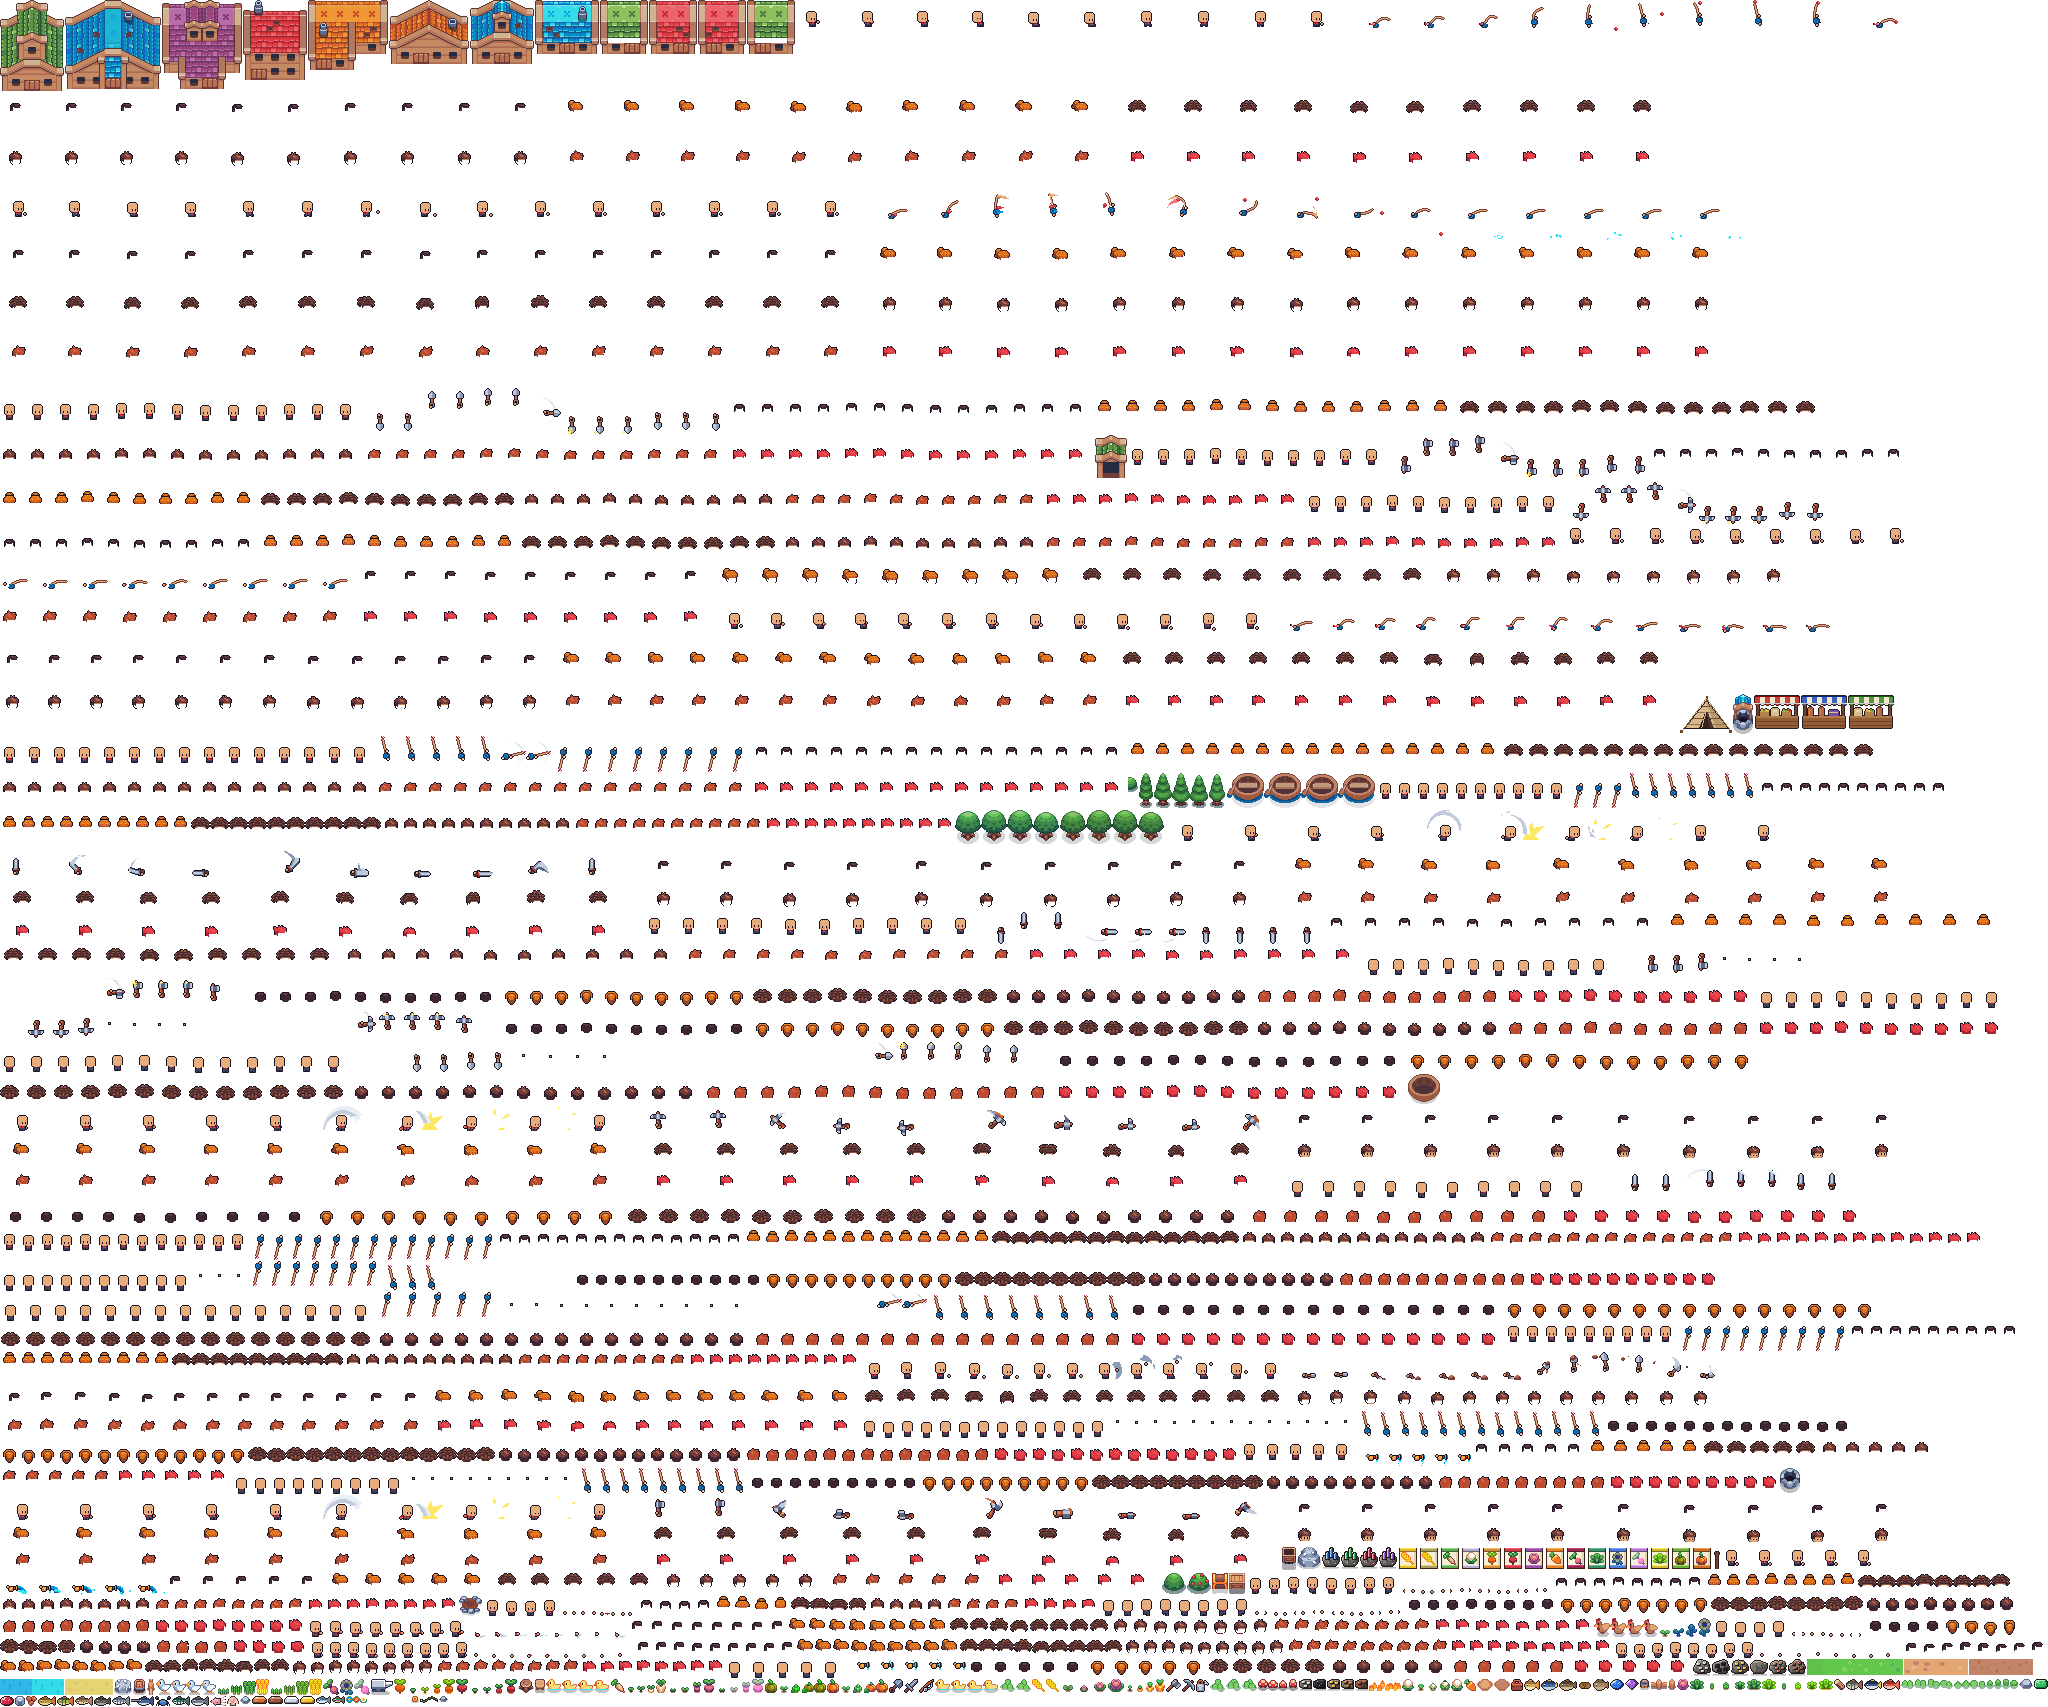
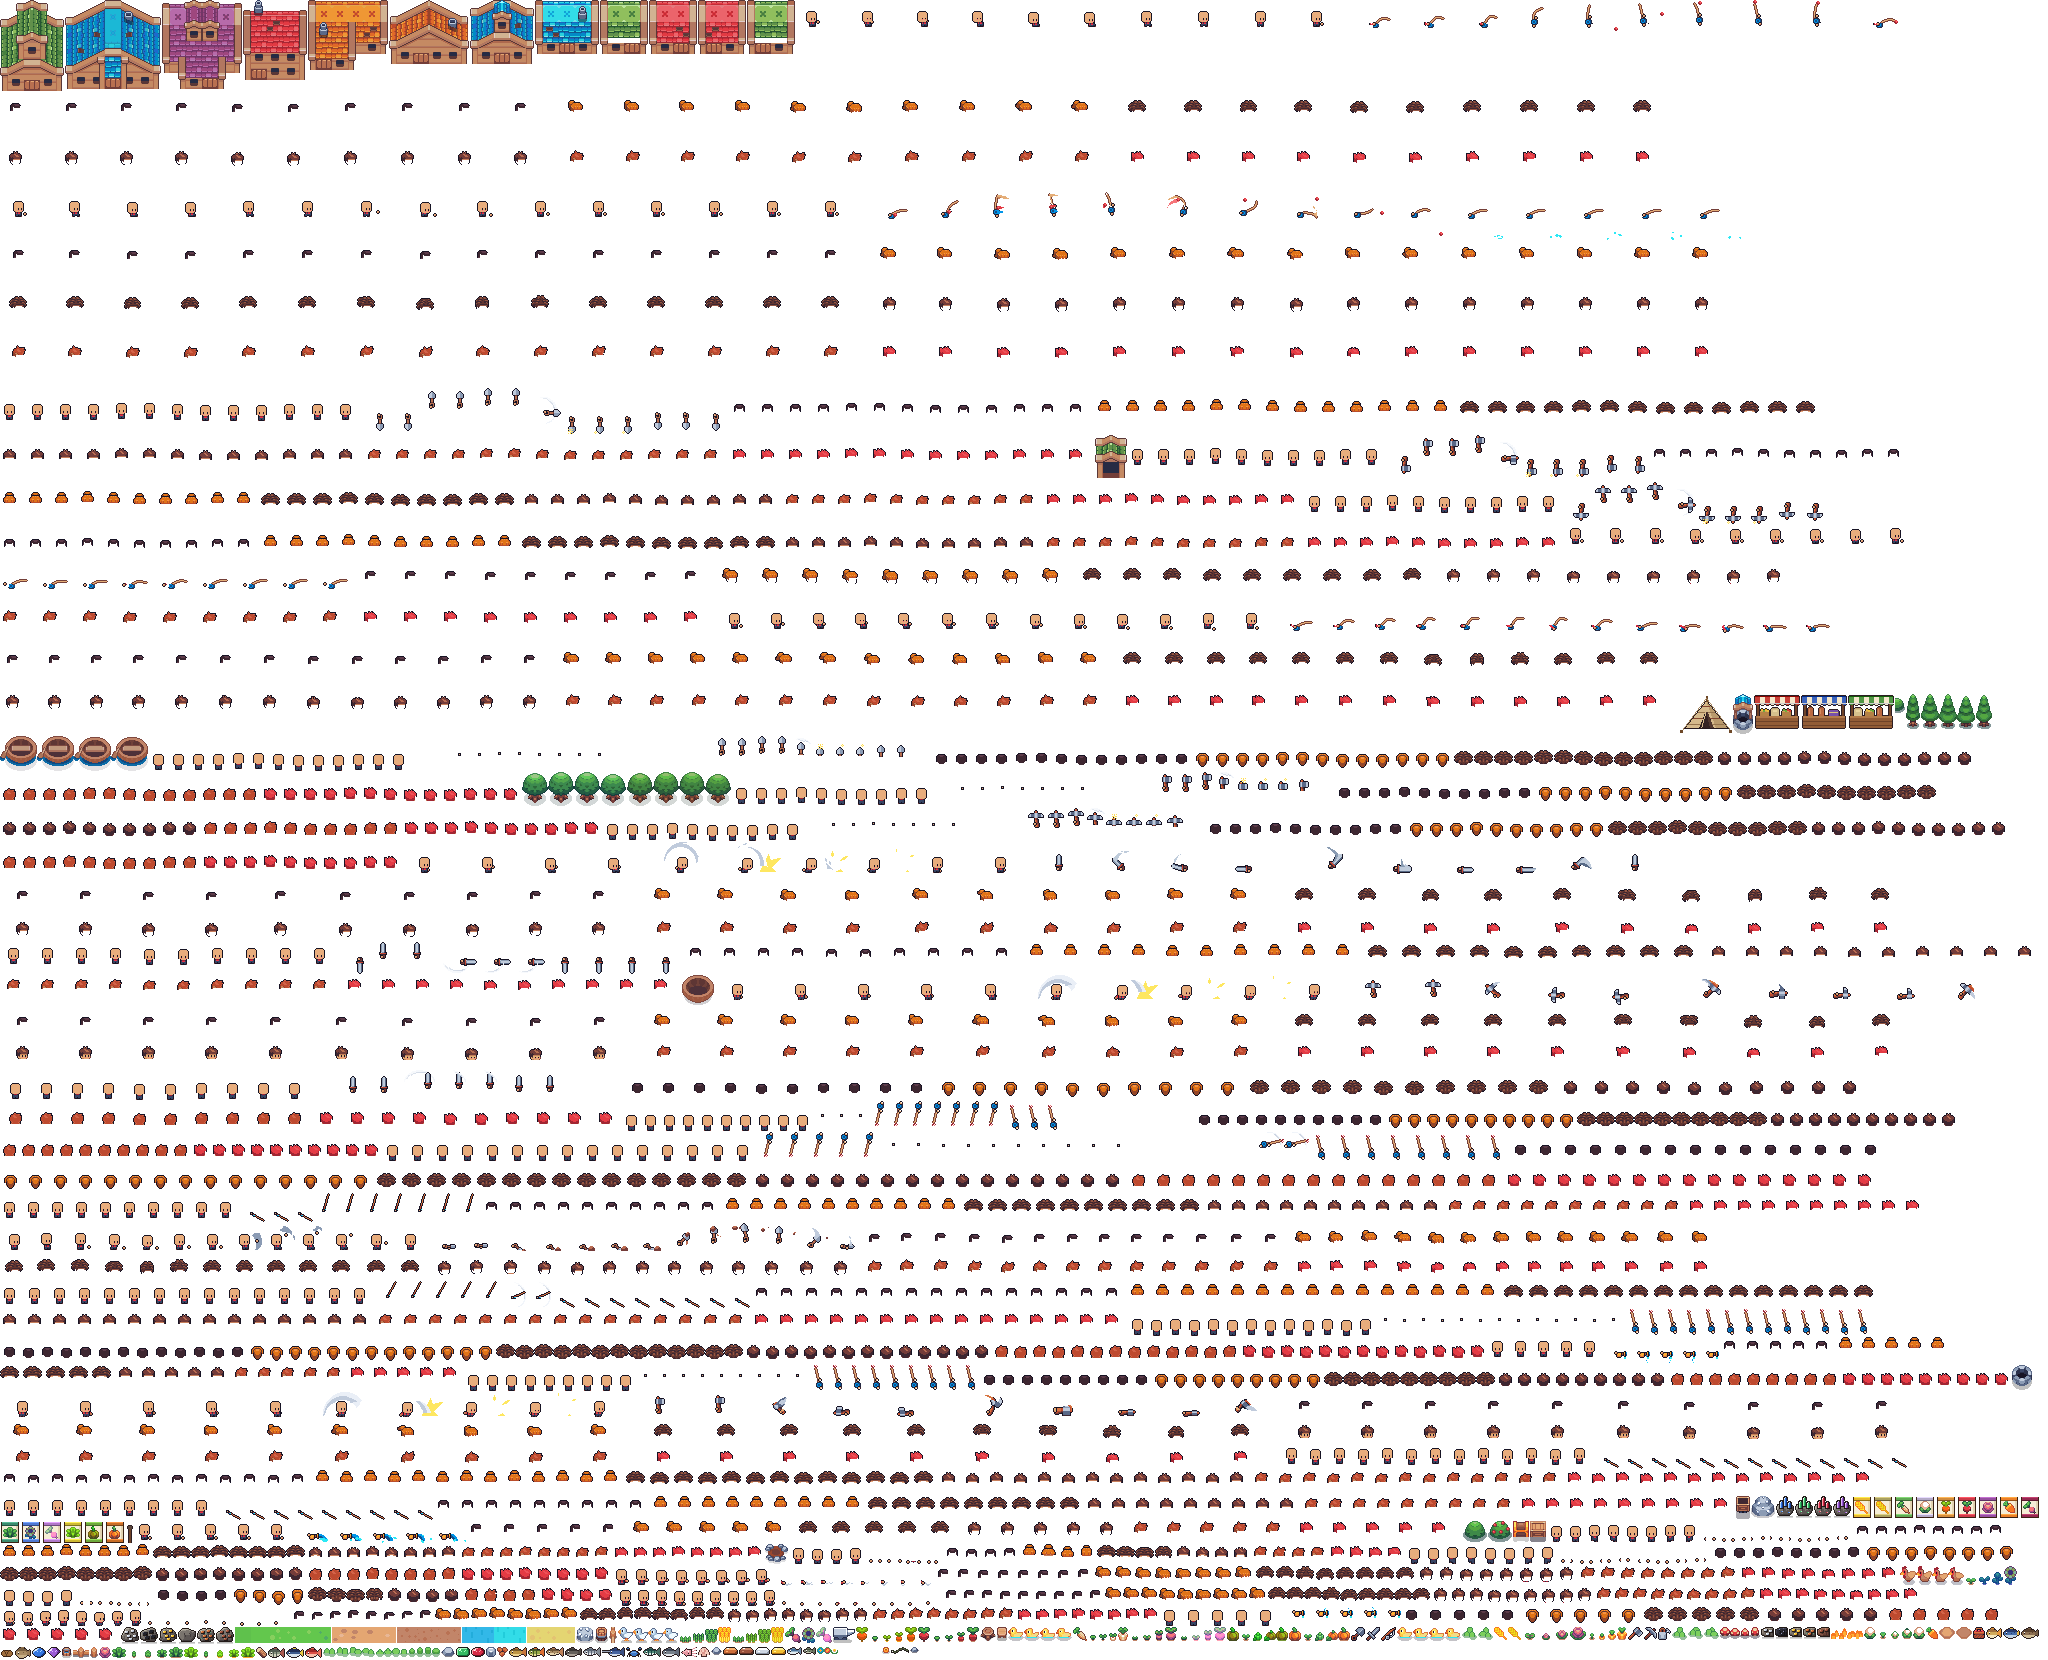
Nicer front fishing pose (hand-drawn rod angled to the water), back chop raises the tool overhead and strikes away, switch button cycles every item in the bag with a name label
Claude-Session: https://claude.ai/code/session_01C2kAzymCygSubPfDnKkPKq

diff --git a/public/js/game.js b/public/js/game.js
@@ -365,7 +365,7 @@ function setupInput() {
   let holdA = null;
   $('#btnA').addEventListener('pointerdown', e => { e.preventDefault(); e.stopPropagation(); ensureAudio(); $('#btnA').classList.add('dn'); action(); clearInterval(holdA); holdA = setInterval(() => { if (!interactTarget() && !villagerNear()) action() }, 120) });
   const upA = () => { $('#btnA').classList.remove('dn'); clearInterval(holdA) }; $('#btnA').addEventListener('pointerup', upA); $('#btnA').addEventListener('pointercancel', upA); $('#btnA').addEventListener('pointerleave', upA);
-  $('#btnB').addEventListener('pointerdown', e => { e.preventDefault(); e.stopPropagation(); ensureAudio(); let i = state.sel; for (let k = 0; k < HOTBAR; k++) { i = (i + 1) % HOTBAR; if (state.inv[i] && ITEMS[state.inv[i].id].tool) break } state.sel = i; sfx.tap(); renderHotbar() });
+  $('#btnB').addEventListener('pointerdown', e => { e.preventDefault(); e.stopPropagation(); ensureAudio(); cycleItem(); sfx.tap(); renderHotbar() });
   $('#btnMap').addEventListener('pointerdown', e => { e.stopPropagation(); ensureAudio(); sfx.tap(); openMenu('map') });
   $('#btnMenu').onclick = () => { ensureAudio(); sfx.tap(); openMenu('bag') };
   $('#binM .x').onclick = closeBin; $('#binM').addEventListener('pointerdown', e => { if (e.target.id === 'binM') closeBin() });
@@ -581,3 +581,13 @@ async function boot() {
   window.PL = { get state() { return state }, get player() { return player }, World, npcs, action, travel, addItem, newDay, save, load, findTarget, get drops() { return drops } };
 }
 boot();
+
+// the switch button steps through everything in your bag (not just tools) and shows what you picked
+function cycleItem() {
+  const n = state.inv.length; let i = state.sel == null ? -1 : state.sel;
+  for (let k = 0; k < n; k++) { i = (i + 1) % n; if (state.inv[i]) break }
+  state.sel = i; const s = state.inv[i]; if (!s) return;
+  let el = $('#selname'); if (!el) { el = document.createElement('div'); el.id = 'selname'; document.body.appendChild(el) }
+  el.innerHTML = `<img src="${iconURL(ITEMS[s.id].icon)}">${ITEMS[s.id].n}${s.n > 1 ? ` <small>×${s.n}</small>` : ''}`;
+  el.classList.remove('on'); void el.offsetWidth; el.classList.add('on'); clearTimeout(cycleItem.t); cycleItem.t = setTimeout(() => el.classList.remove('on'), 1300);
+}

diff --git a/public/css/style.css b/public/css/style.css
@@ -287,3 +287,9 @@ button{font:inherit;cursor:pointer}
 
 /* the game logo keeps its pixel lettering */
 .logo,.logo *{font-family:'Pixelify Sans',monospace}
+
+/* name of the item picked with the switch button */
+#selname{position:fixed;left:50%;bottom:calc(env(safe-area-inset-bottom) + 132px);transform:translate(-50%,6px);z-index:7;display:flex;align-items:center;gap:6px;padding:4px 12px 4px 6px;background:#fbe6bf;border:3px solid #5b2e12;border-radius:12px;color:#5b2e12;font-weight:800;font-size:15px;white-space:nowrap;opacity:0;pointer-events:none;transition:opacity .15s,transform .15s}
+#selname.on{opacity:1;transform:translate(-50%,0)}
+#selname img{width:24px;height:24px;image-rendering:pixelated}
+#selname small{font-size:12px;opacity:.75}

diff --git a/public/sw.js b/public/sw.js
@@ -1,5 +1,5 @@
 // Network first, fall back to cache so the game still opens offline.
-const CACHE='mlpl-v36';
+const CACHE='mlpl-v37';
 self.addEventListener('install',e=>self.skipWaiting());
 self.addEventListener('activate',e=>e.waitUntil(caches.keys().then(ks=>Promise.all(ks.filter(k=>k!==CACHE).map(k=>caches.delete(k)))).then(()=>self.clients.claim())));
 self.addEventListener('fetch',e=>{if(e.request.method!=='GET')return;e.respondWith(fetch(e.request).then(r=>{const c=r.clone();caches.open(CACHE).then(ca=>ca.put(e.request,c));return r}).catch(()=>caches.match(e.request)))});

diff --git a/tools/ns_anims.py b/tools/ns_anims.py
@@ -93,6 +93,8 @@ def build(ASE, fr, TAG):
     def tool_up(k): s = TOOLS[k]; return s, hand_anchor(s)
     def tool_down(k):
         s = TOOLS[k].transpose(Image.FLIP_TOP_BOTTOM); return s, hand_anchor(s)
+    def short_up(k, h):   # the top of the upright tool: its head and a little handle (foreshortened)
+        s = TOOLS[k]; return s.crop((0, 0, s.width, min(h, s.height))), None
     def tool_side(k, right=True):   # lying sideways, head pointing out
         s = TOOLS[k].transpose(Image.ROTATE_270 if right else Image.ROTATE_90); return s, hand_anchor(s)
 
@@ -117,14 +119,14 @@ def build(ASE, fr, TAG):
                 elif pose == 'recover': s, a = tool_down(K); stamp(front, s, a, (50, 33))
             else:
                 if pose == 'rest': pass
-                elif pose == 'wind1': s, a = tool_down(K); stamp(front, s, a, (48, 23))
-                elif pose == 'wind2': s, a = tool_down(K); stamp(front, s, a, (48, 21))
-                elif pose == 'swing': arc(rear, 48, 22, 13, 110, -10, 3); s, a = tool_side(K, True); stamp(rear, s, a, (50, 21)); hand(front, 48, 22)
-                elif pose in ('strike', 'hold'):
-                    s, a = tool_up(K); stamp(rear, s, a, (48, 24)); hand(front, 48, 23); top = 24 - a[1] + 3
-                    if pose == 'strike': star(rear, 48, max(2, top), True)
-                    else: star(rear, 50, max(2, top - 1), False)
-                elif pose == 'recover': s, a = tool_up(K); stamp(rear, s, a, (50, 27))
+                elif pose == 'wind1': s, a = tool_up(K); stamp(rear, s, a, (48, 22)); hand(front, 48, 23)
+                elif pose == 'wind2': s, a = tool_up(K); stamp(rear, s, a, (48, 20)); hand(front, 48, 22)
+                elif pose == 'swing': arc(rear, 48, 18, 11, -20, 60, 3); s, a = short_up(K, 13); stamp(rear, s, (s.width // 2, s.height - 1), (49, 23)); hand(front, 48, 23)
+                elif pose in ('strike', 'hold'):   # pointing away from you, so you only see the head of the tool past your head
+                    s, a = short_up(K, 9); stamp(rear, s, (s.width // 2, s.height - 1), (48, 24)); hand(front, 48, 23)
+                    if pose == 'strike': star(rear, 48, 24 - s.height, True)
+                    else: star(rear, 50, 23 - s.height, False)
+                elif pose == 'recover': s, a = short_up(K, 12); stamp(rear, s, (s.width // 2, s.height - 1), (49, 25))
         elif kind == 'sweep':
             if dir_ == 's':
                 if pose == 'rest': s, a = tool_down(K); stamp(front, s, a, (52, 34))
@@ -177,22 +179,36 @@ def build(ASE, fr, TAG):
             if al and r > 170 and g < 110 and b_ < 110: px[x, y] = (0, 0, 0, 0)      # take the red bobber off
     ROD = biggest_part(rod.crop(rod.getbbox()))
     rod_up, rod_dn = ROD, ROD.transpose(Image.FLIP_TOP_BOTTOM)
+    sr = fr(265, ('tools', 'tools rear')); spx = sr.load()
+    for y in range(sr.height):
+        for x in range(sr.width):
+            r, g, b_, al = spx[x, y]
+            if al and r > 215 and g > 215 and b_ > 215: spx[x, y] = (0, 0, 0, 0)       # take the fishing line off
+    SROD = biggest_part(sr.crop(sr.getbbox()))
+    rod_hold, rod_low = SROD, SROD.transpose(Image.FLIP_TOP_BOTTOM)     # up over the shoulder / angled down toward the water
     rod_side = ROD.transpose(Image.ROTATE_270)
     def far_pixel(spr, anchor, at, pick):   # the rod tip, in canvas coordinates
         pts = [(x, y) for y in range(spr.height) for x in range(spr.width) if spr.getpixel((x, y))[3]]
         x, y = pick(pts); return (at[0] - anchor[0] + x, at[1] - anchor[1] + y)
-    OUT_S, OUT_N = (50, 35), (49, 25)
-    tips = {'s': far_pixel(rod_dn, hand_anchor(rod_dn), OUT_S, lambda P: max(P, key=lambda q: q[1])),
+    OUT_S, OUT_N = (51, 34), (49, 25)
+    ROD_C, ROD_L, REEL = (190, 74, 47, 255), (215, 118, 67, 255), [(0, 149, 233, 255), (44, 232, 245, 255)]
+    def rod_line(img, x0, y0, x1, y1):   # a hand-drawn rod: outlined, light along the top, reel near your hands
+        n = max(abs(x1 - x0), abs(y1 - y0)); pts = [(round(x0 + (x1 - x0) * k / n), round(y0 + (y1 - y0) * k / n)) for k in range(n + 1)]
+        for x, y in pts:
+            for dx, dy in ((0, 1), (1, 0), (-1, 0), (0, -1)): img.putpixel((x + dx, y + dy), O)
+        for i, (x, y) in enumerate(pts): img.putpixel((x, y), ROD_L if i > n * .35 else ROD_C)
+        rx, ry = pts[2]; img.putpixel((rx, ry + 1), REEL[0]); img.putpixel((rx + 1, ry + 1), REEL[1]); img.putpixel((rx, ry + 2), O); img.putpixel((rx + 1, ry + 2), O)
+        hand(img, x0, y0); return pts[-1]
+    ROD_S = {'wind': (50, 31, 58, 17), 'swing': (50, 32, 62, 27), 'out': (49, 34, 61, 41), 'yank': (49, 31, 54, 15)}
+    tips = {'s': (ROD_S['out'][2], ROD_S['out'][3]),
             'n': far_pixel(rod_up, hand_anchor(rod_up), OUT_N, lambda P: min(P, key=lambda q: q[1]))}
     def fish_frame(d, pose, i):
         front, rear = Image.new('RGBA', (W, H)), Image.new('RGBA', (W, H))
         body = bs_free if d == 's' else bn_free; hairs = hair_s if d == 's' else hair_n
         bob = 1 if pose == 'reel' and i % 2 else 0
         if d == 's':
-            if pose == 'wind': stamp(front, rod_up, hand_anchor(rod_up), (48, 24))
-            elif pose == 'swing': arc(front, 49, 29, 12, -10, 150, 2); stamp(front, rod_side, hand_anchor(rod_side), (51, 31))
-            elif pose in ('out', 'reel'): stamp(front, rod_dn, hand_anchor(rod_dn), (OUT_S[0], OUT_S[1] + bob))
-            elif pose == 'yank': stamp(front, rod_up, hand_anchor(rod_up), (49, 25))
+            if pose == 'swing': arc(front, 50, 30, 13, 10, 150, 2)
+            x0, y0, x1, y1 = ROD_S['out' if pose == 'reel' else pose]; rod_line(front, x0, y0 + bob, x1, y1 + bob)
         else:
             if pose == 'wind': stamp(front, rod_dn, hand_anchor(rod_dn), (48, 22))
             elif pose == 'swing': arc(rear, 48, 22, 12, 110, -10, 2); stamp(rear, rod_side, hand_anchor(rod_side), (50, 21)); hand(front, 48, 22)
